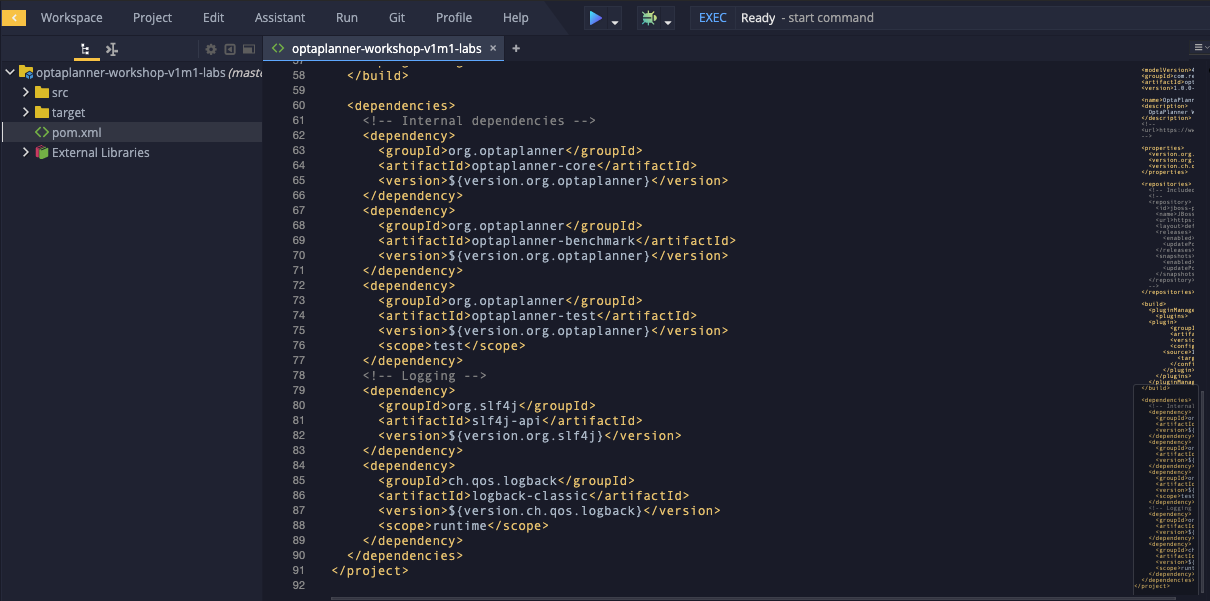
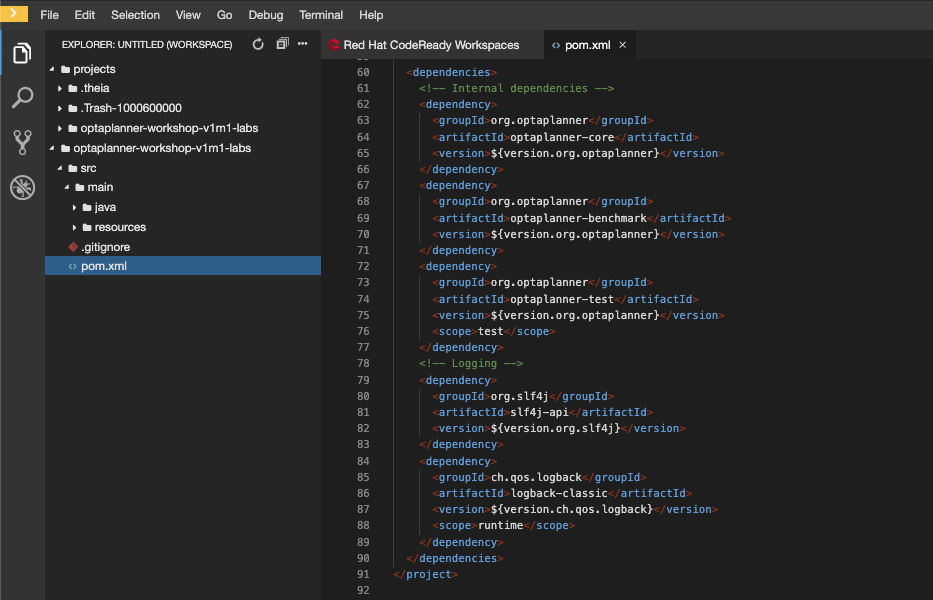
Porting to CRW2.

diff --git a/import-labs.md b/import-labs.md
@@ -60,7 +60,11 @@ In the initial screen, the `New Workspace` screen, that the platform provides us
     ![CRW Select Location Dropdown Home]({% image_path crw-select-location-dropdown-home.png %}){:width="600px"}
     ![CRW Select Location Projects List]({% image_path crw-select-location-projects-list.png %}){:width="600px"}
     ![CRW Select Location Projects Folder]({% image_path crw-select-location-projects-folder.png %}){:width="600px"}
-7. In the lower right corner, a pop-up will appead.
+7. In the lower right corner, a pop-up will appear, asking you whether you want to open the repository or add it to your workspace. Click on _Add to Workspace_.
+    ![CRW Add Repository Workspace]({% image_path crw-add-repository-workspace.png %}){:width="600px"}
+8. In the upper-left corner of your screen, click on the _Document_ icon to open your workspace _Explorer_. You will see your cloned repository in the explorer view.
+    ![CRW Lab1 In Explorer]({% image_path crw-lab1-in-explorer.png %}){:width="600px"}
+
 
 Our imported project is an empty Maven Java JAR project, with a number of predefined dependencies in the POM file, and a number of default folders, i.e. `src/main/java` and `src/main/resources`. Open the POM file by clicking on the `pom.xml` file of the project. Observe the dependencies that have been pre-defined, the the `optaplanner-core` dependency.
 
